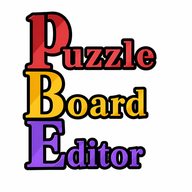
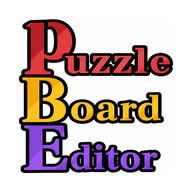
PWAの説明追加、やり方説明追加、アイコン修正

diff --git a/index.html b/index.html
@@ -4,20 +4,22 @@
 <head>
     <meta charset="UTF-8">
     <meta name="viewport" content="width=device-width, initial-scale=1.0, maximum-scale=1.0, user-scalable=no">
-    <title>定石メーカー</title>
-    <link rel="stylesheet" href="style.css">
-    <script src="script.js" defer></script>
-    <link rel="manifest" href="manifest.json">
+    <title>定石メーカー (テスト環境)</title>
+
+    <link rel="manifest" href="../manifest.json">
 
     <meta name="apple-mobile-web-app-capable" content="yes">
     <meta name="apple-mobile-web-app-status-bar-style" content="black-translucent">
     <meta name="apple-mobile-web-app-title" content="PadBoardEditor">
-    <link rel="apple-touch-icon" href="images/icon-192.png">
+    <link rel="apple-touch-icon" href="../images/icon-192.png">
+
+    <link rel="stylesheet" href="style.css">
+    <script src="script.js" defer></script>
 
     <script>
         if ('serviceWorker' in navigator) {
             window.addEventListener('load', () => {
-                navigator.serviceWorker.register('sw.js')
+                navigator.serviceWorker.register('../sw.js')
                     .then(registration => {
                         console.log('ServiceWorkerが登録されました', registration.scope);
                     })
@@ -128,6 +130,7 @@
         </div>
 
         <div id="footer">
+
             <div id="usage-container">
                 <details class="usage-details">
                     <summary class="usage-summary">💡 使い方説明</summary>
@@ -144,32 +147,31 @@
                             </ul>
                         </details>
                         <details>
-                            <summary>▶ パズルモード</summary>
+                            <summary>パズルモード</summary>
                             <ul>
                                 <li>ドロップを自由に動かしてパズルを練習できます。</li>
-                                <li>「新しい盤面」ボタン：ランダムで盤面を生成します。（設定メニューよりカスタムすることができます。）</li>
+                                <li>「新しい盤面」ボタン：ランダムで盤面を生成します。</li>
                                 <li>「リセット」ボタン：即座にパズル前の盤面に戻します。</li>
                                 <li>「ルート表示・非表示」ボタン：組み換えモードで記録したルートの表示切替ができます。</li>
                             </ul>
                         </details>
                         <details>
-                            <summary>▶ 配置モード</summary>
+                            <summary>配置モード</summary>
                             <ul>
                                 <li>パレットから色を選び、盤面をタップまたはドラッグで変更できます。</li>
                                 <li>特定のドロップを「消せないドロップ」に設定することもできます。</li>
-                                <li>「新しい盤面」ボタン：ランダムで盤面を生成します。（設定メニューよりカスタムすることができます。）</li>
+                                <li>「新しい盤面」ボタン：ランダムで盤面を生成します。</li>
                                 <li>「リセット」ボタン：即座にドロップ変更前の盤面に戻します。</li>
                             </ul>
                         </details>
                         <details>
-                            <summary>▶ 組み換えモード</summary>
+                            <summary>組み換えモード</summary>
                             <ul>
                                 <li>ドロップを動かしても消えず、動かした軌跡（ルート）が記録されます。</li>
                                 <li>ルート作成後は、ルートリセットボタンを押すまで再描画されません。</li>
                                 <li>「盤面リセット」ボタン：即座にパズル前の盤面に戻します。</li>
                                 <li>「ルートリセット」ボタン：記録されたルートを削除します。</li>
                                 <li>「逆再現」ボタン：組み換え前後（パズル前後の盤面とルート）の切り替えができます。</li>
-                                <li>「ルート表示・非表示」ボタン：保存したルートの表示切替ができます。</li>
                                 <li>「自動再生」ボタン：作成したルートの動きを確認できます。</li>
                                 <li>「左右入れ替え」ボタン：盤面とルートの左右を入れ替えます。</li>
                             </ul>
@@ -178,7 +180,39 @@
                 </details>
             </div>
 
-            <p>※当サイトは『パズル＆ドラゴンズ』の非公式ファンツール（配置シミュレーター）です。</p>
+            <div id="pwa-benefits"
+                style="margin: 20px 0; padding: 15px; background: rgba(255,255,255,0.05); border-radius: 8px; text-align: left; border: 1px solid #444;">
+                <h3 style="margin-top: 0; color: #ffd700; font-size: 16px;">✨ アプリのように使えます</h3>
+                <p style="margin-bottom: 0; font-size: 13px; color: #ccc;">
+                    このサイトはPWA技術に対応しています。ホーム画面に追加することで、ブラウザの<b>検索バーやステータスバーが非表示</b>になり、画面いっぱいに表示して本物のアプリのように快適に操作できるようになります。
+                </p>
+            </div>
+
+            <div id="usage-container">
+                <details class="usage-details">
+                    <summary class="usage-summary">📱 アプリ化（ホーム画面に追加）の方法</summary>
+                    <div class="usage-content">
+                        <details>
+                            <summary>iPhone (Safari)</summary>
+                            <ul>
+                                <li>共有ボタン（四角から上矢印）をタップします。</li>
+                                <li>メニューを下にスクロールし、「ホーム画面に追加」を選択します。</li>
+                                <li>右上の「追加」をタップすると完了です。※Webアプリとして開くをオン</li>
+                            </ul>
+                        </details>
+                        <details>
+                            <summary>Android (Chrome)</summary>
+                            <ul>
+                                <li>画面右上にある「メニューボタン（︙）」をタップします。</li>
+                                <li>「ホーム画面に追加」または「アプリをインストール」を選択します。</li>
+                                <li>画面の指示に従って追加すれば完了です。</li>
+                            </ul>
+                        </details>
+                    </div>
+                </details>
+            </div>
+
+            <p style="margin-top: 30px;">※当サイトは『パズル＆ドラゴンズ』の非公式ファンツールです。</p>
             <p>ガンホー・オンライン・エンターテイメント株式会社様、および関連企業様とは一切関係ございません。</p>
 
             <p class="highlight-text" style="margin-top: 20px; border-top: 1px solid #333; padding-top: 10px;">
@@ -187,7 +221,7 @@
         </div>
     </div>
 
-    <button id="back-to-top" title="トップへ戻る">▲</button>
+    <button id="back-to-top" title="トップへ戻る">▲ 上部へ戻る</button>
 </body>
 
 </html>
